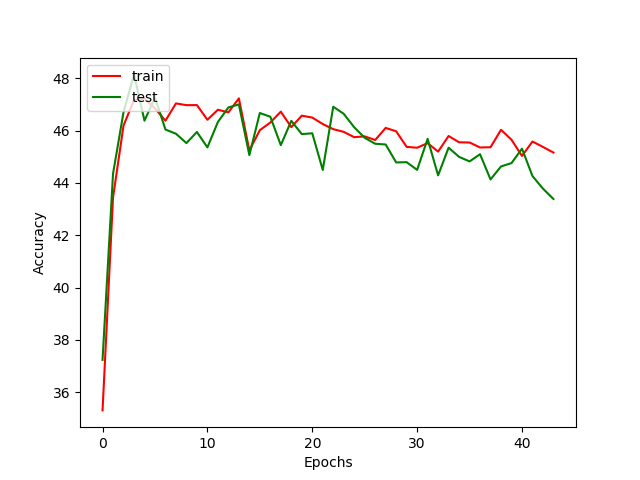
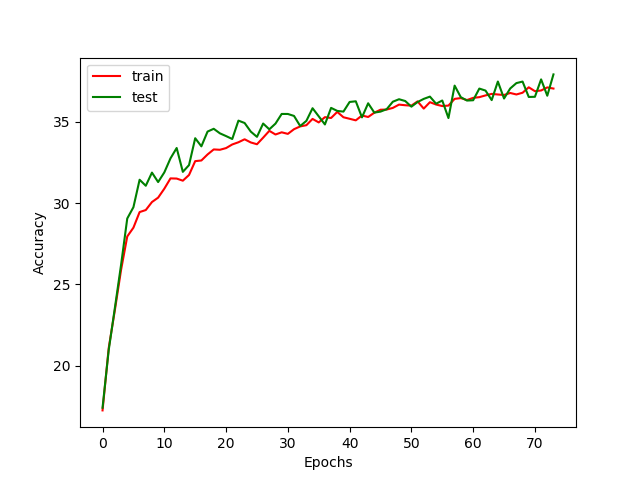
in progress

diff --git a/Part3/bilstmTrain.py b/Part3/bilstmTrain.py
@@ -6,12 +6,12 @@ from torch.optim import Adam
 from torch.utils.data import DataLoader
 
 # ToDO: change when submit
-# from Part3.dataloader import PyTorchDataset, pad_collate
-# from utils import to_print, PRINT, save_graph
-from DL_3.Part3.dataloader import PyTorchDataset, pad_collate
-from DL_3.utils import to_print, PRINT
+from Part3.dataloader import PyTorchDataset, pad_collate
+from utils import to_print, PRINT, save_graph
+# from DL_3.Part3.dataloader import PyTorchDataset, pad_collate
+# from DL_3.utils import to_print, PRINT
 
-BATCH_SIZE = 25
+BATCH_SIZE = 50
 
 device = 'cuda' if cuda.is_available() else 'cpu'
 print("Graphical device test: {}".format(torch.cuda.is_available()))
@@ -41,7 +41,7 @@ class BidirectionRnn(nn.Module):
 
         # RNN - BidirectionRnn with 2 layers
         self.num_direction = 2 if bidirectional else 1
-        self.rnn = nn.LSTM(embedding_dim, hidden_dim, bidirectional=bidirectional, num_layers=2, dropout=0.5)
+        self.rnn = nn.LSTM(embedding_dim, hidden_dim, bidirectional=bidirectional, num_layers=2, dropout=0.3)
         # Linear layer
         self.hidden2out = nn.Linear(hidden_dim * 2, tagset_size)
         self.softmax = nn.Softmax(dim=1)
@@ -145,18 +145,18 @@ if __name__ == '__main__':
     model_file = argv[3]
     is_ner = True if argv[4] == 'ner' else False
     test_file = argv[5]
-    train_file = r'/home/vova/PycharmProjects/deep_exe3/DL_3/Part3/ner/train'
     # train_file = r'/home/vova/PycharmProjects/deep_exe3/DL_3/Part3/ner/train'
-    test_file = r'/home/vova/PycharmProjects/deep_exe3/DL_3/Part3/ner/dev'
+    # train_file = r'/home/vova/PycharmProjects/deep_exe3/DL_3/Part3/ner/train'
+    # test_file = r'/home/vova/PycharmProjects/deep_exe3/DL_3/Part3/ner/dev'
     train_dataset = PyTorchDataset(train_file)
     test_dataset = PyTorchDataset(test_file)
     train_set = DataLoader(train_dataset, batch_size=BATCH_SIZE, shuffle=True, collate_fn=pad_collate)
     voc_size = len(PyTorchDataset.word_to_num)
     tag_size = len(PyTorchDataset.target_to_num)
     bi_rnn = BidirectionRnn(vocab_size=voc_size,
-                            embedding_dim=50,
+                            embedding_dim=30,
                             hidden_dim=30,
                             tagset_size=tag_size).to(device)
     test_set = DataLoader(test_dataset, batch_size=BATCH_SIZE, shuffle=True, collate_fn=pad_collate)
-    train(bi_rnn, train_set, test_set, lr=0.001, epoch=5, is_ner=False)
+    train(bi_rnn, train_set, test_set, lr=0.01, epoch=5, is_ner=False)
 

diff --git a/Part3/dataloader.py b/Part3/dataloader.py
@@ -45,7 +45,7 @@ class PyTorchDataset(torch.utils.data.Dataset):
         x, y = self.sequences[idx], self.targets[idx]
 
         data = torch.tensor(x, dtype=torch.long)
-        target = torch.tensor(y)
+        target = torch.tensor(y, dtype=torch.long)
         return (data, target)
 
     def __len__(self):
@@ -55,14 +55,13 @@ class PyTorchDataset(torch.utils.data.Dataset):
     def load_file(path):
         data, target = np.genfromtxt(path, dtype='U20', unpack=True)
 
-        words = list(zip(*(data, target)))
-        word_dict = Counter(words)
+        word_dict = Counter(data)
         min_threshold = 3
 
         newDict = dict(filter(lambda elem: elem[1] > min_threshold, word_dict.items()))
-        keys, values = list(zip(*(newDict.items())))
+        keys = [(word if word in newDict else 'UUUNNNKKK', target) for word, target in zip(data, target)]
         data, target = list(zip(*(keys)))
-        return data, target
+        return np.array(data), np.array(target)
 
     @staticmethod
     def create_sentences(data, target, word_to_num, target_to_num):
